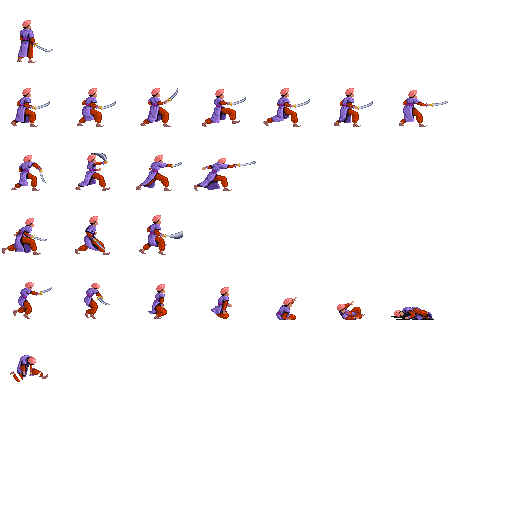
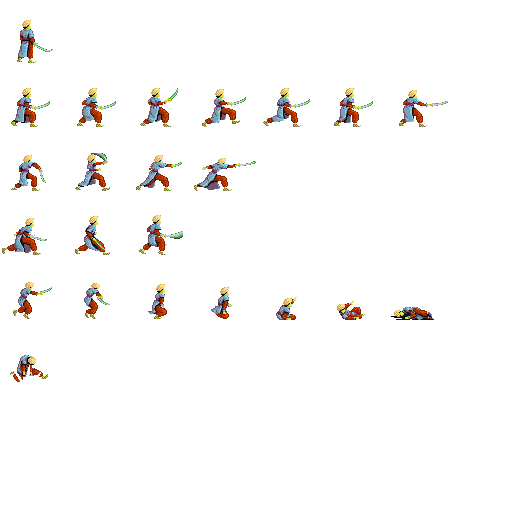
added credits, help, enemy2

diff --git a/2DGame/02-Bubble/02-Bubble/Enemy.cpp b/2DGame/02-Bubble/02-Bubble/Enemy.cpp
@@ -20,10 +20,17 @@ void Enemy::init(const glm::ivec2 &tileMapPos, ShaderProgram &shaderProgram, int
 	float stepX = 1.0f / 8.0f; //CHECK
 	float stepY = 1.0f / 8.0f;
 	tileMapDispl = tileMapPos;
-	health = 3;
-	max_health = 4;
+	if (type == 1){
+		health = 6;
+		max_health = 6;
+	}
+	else {
+		health = 3;
+		max_health = 4;
+	}
 	spritesheet.setWrapS(GL_MIRRORED_REPEAT);	//per a fer servir coordenades negatives i fer mirror
-	spritesheet.loadFromFile("images/Enemy.png", TEXTURE_PIXEL_FORMAT_RGBA);
+	if (type == 1) spritesheet.loadFromFile("images/Enemy.png", TEXTURE_PIXEL_FORMAT_RGBA);
+	else if (type == 2) spritesheet.loadFromFile("images/Enemy2.png", TEXTURE_PIXEL_FORMAT_RGBA);
 	spritesheet.setMagFilter(GL_NEAREST);
 	sprite = Sprite::createSprite(glm::ivec2(64, 64), glm::vec2(stepX, stepY), &spritesheet, &shaderProgram);
 

diff --git a/2DGame/02-Bubble/02-Bubble/EntityMap.cpp b/2DGame/02-Bubble/02-Bubble/EntityMap.cpp
@@ -49,6 +49,7 @@ void EntityMap::render() const
 		entities[i]->render();
 	}
 	for (int i = 0; i < enemies.size(); i++){
+		std::cout << enemies[i]->type << " " << std::endl;
 		enemies[i]->render();
 	}
 
